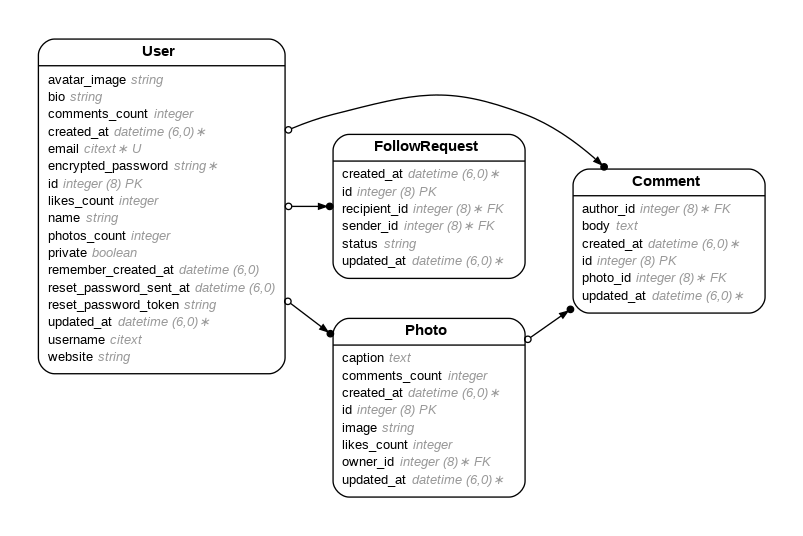
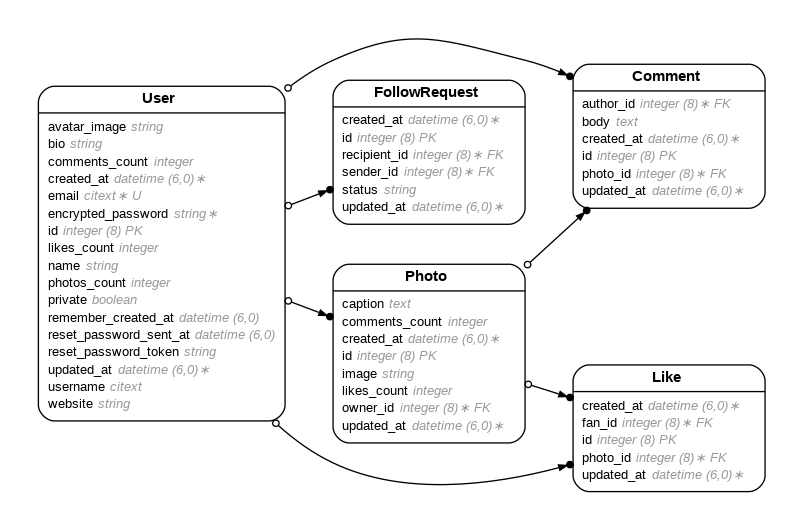
genrate likes

diff --git a/app/controllers/likes_controller.rb b/app/controllers/likes_controller.rb
@@ -1,0 +1,70 @@
+class LikesController < ApplicationController
+  before_action :set_like, only: %i[ show edit update destroy ]
+
+  # GET /likes or /likes.json
+  def index
+    @likes = Like.all
+  end
+
+  # GET /likes/1 or /likes/1.json
+  def show
+  end
+
+  # GET /likes/new
+  def new
+    @like = Like.new
+  end
+
+  # GET /likes/1/edit
+  def edit
+  end
+
+  # POST /likes or /likes.json
+  def create
+    @like = Like.new(like_params)
+
+    respond_to do |format|
+      if @like.save
+        format.html { redirect_to @like, notice: "Like was successfully created." }
+        format.json { render :show, status: :created, location: @like }
+      else
+        format.html { render :new, status: :unprocessable_entity }
+        format.json { render json: @like.errors, status: :unprocessable_entity }
+      end
+    end
+  end
+
+  # PATCH/PUT /likes/1 or /likes/1.json
+  def update
+    respond_to do |format|
+      if @like.update(like_params)
+        format.html { redirect_to @like, notice: "Like was successfully updated." }
+        format.json { render :show, status: :ok, location: @like }
+      else
+        format.html { render :edit, status: :unprocessable_entity }
+        format.json { render json: @like.errors, status: :unprocessable_entity }
+      end
+    end
+  end
+
+  # DELETE /likes/1 or /likes/1.json
+  def destroy
+    @like.destroy!
+
+    respond_to do |format|
+      format.html { redirect_to likes_path, status: :see_other, notice: "Like was successfully destroyed." }
+      format.json { head :no_content }
+    end
+  end
+
+  private
+    # Use callbacks to share common setup or constraints between actions.
+    def set_like
+      @like = Like.find(params.expect(:id))
+    end
+
+    # Only allow a list of trusted parameters through.
+    def like_params
+      params.expect(like: [ :fan_id, :photo_id ])
+    end
+end

diff --git a/db/schema.rb b/db/schema.rb
@@ -10,7 +10,7 @@
 #
 # It's strongly recommended that you check this file into your version control system.
 
-ActiveRecord::Schema[8.0].define(version: 2025_07_26_211852) do
+ActiveRecord::Schema[8.0].define(version: 2025_07_26_212313) do
   # These are extensions that must be enabled in order to support this database
   enable_extension "citext"
   enable_extension "pg_catalog.plpgsql"
@@ -33,6 +33,15 @@ ActiveRecord::Schema[8.0].define(version: 2025_07_26_211852) do
     t.datetime "updated_at", null: false
     t.index ["recipient_id"], name: "index_follow_requests_on_recipient_id"
     t.index ["sender_id"], name: "index_follow_requests_on_sender_id"
+  end
+
+  create_table "likes", force: :cascade do |t|
+    t.bigint "fan_id", null: false
+    t.bigint "photo_id", null: false
+    t.datetime "created_at", null: false
+    t.datetime "updated_at", null: false
+    t.index ["fan_id"], name: "index_likes_on_fan_id"
+    t.index ["photo_id"], name: "index_likes_on_photo_id"
   end
 
   create_table "photos", force: :cascade do |t|
@@ -214,6 +223,8 @@ ActiveRecord::Schema[8.0].define(version: 2025_07_26_211852) do
   add_foreign_key "comments", "users", column: "author_id"
   add_foreign_key "follow_requests", "users", column: "recipient_id"
   add_foreign_key "follow_requests", "users", column: "sender_id"
+  add_foreign_key "likes", "photos"
+  add_foreign_key "likes", "users", column: "fan_id"
   add_foreign_key "photos", "users", column: "owner_id"
   add_foreign_key "solid_queue_blocked_executions", "solid_queue_jobs", column: "job_id", on_delete: :cascade
   add_foreign_key "solid_queue_claimed_executions", "solid_queue_jobs", column: "job_id", on_delete: :cascade

diff --git a/app/models/like.rb b/app/models/like.rb
@@ -1,0 +1,24 @@
+# == Schema Information
+#
+# Table name: likes
+#
+#  id         :bigint           not null, primary key
+#  created_at :datetime         not null
+#  updated_at :datetime         not null
+#  fan_id     :bigint           not null
+#  photo_id   :bigint           not null
+#
+# Indexes
+#
+#  index_likes_on_fan_id    (fan_id)
+#  index_likes_on_photo_id  (photo_id)
+#
+# Foreign Keys
+#
+#  fk_rails_...  (fan_id => users.id)
+#  fk_rails_...  (photo_id => photos.id)
+#
+class Like < ApplicationRecord
+  belongs_to :fan, class_name: "User"
+  belongs_to :photo
+end

diff --git a/db/migrate/20250726212313_create_likes.rb b/db/migrate/20250726212313_create_likes.rb
@@ -1,0 +1,10 @@
+class CreateLikes < ActiveRecord::Migration[8.0]
+  def change
+    create_table :likes do |t|
+      t.references :fan, null: false, foreign_key: {to_table: :users}, index: true
+      t.references :photo, null: false, foreign_key: true ,index: true
+
+      t.timestamps
+    end
+  end
+end

diff --git a/config/routes.rb b/config/routes.rb
@@ -1,4 +1,5 @@
 Rails.application.routes.draw do
+  resources :likes
   resources :follow_requests
   resources :comments
   resources :photos
